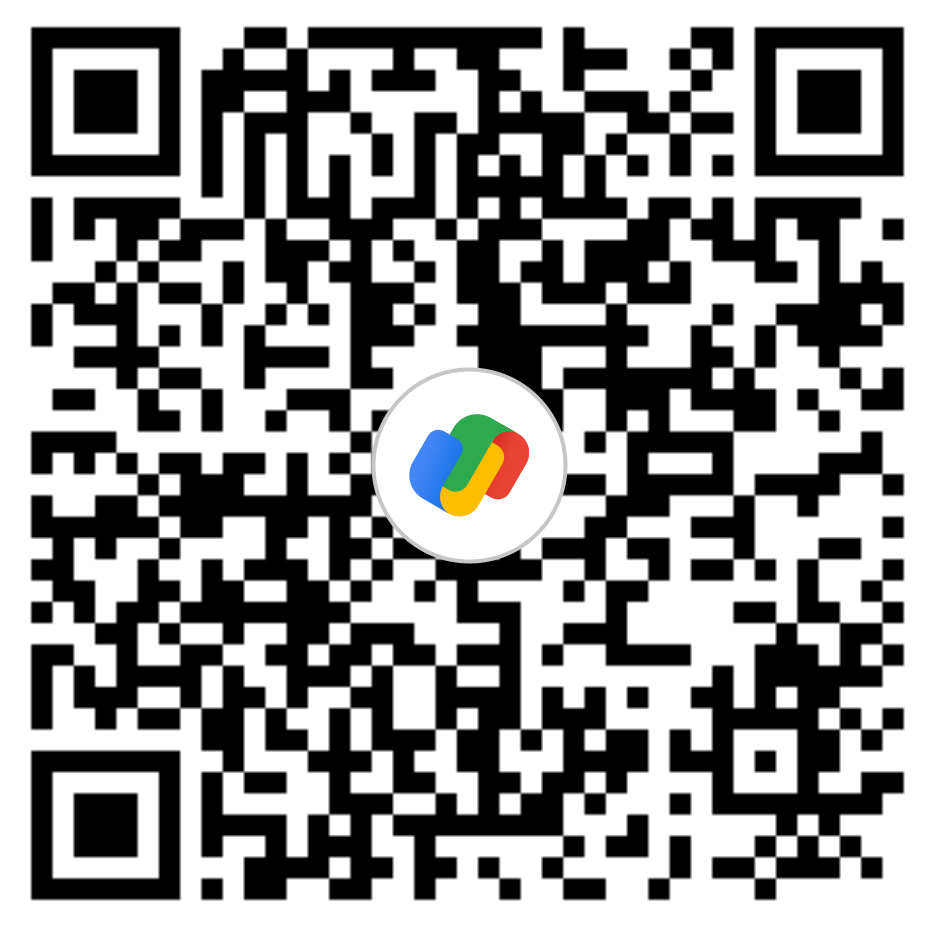
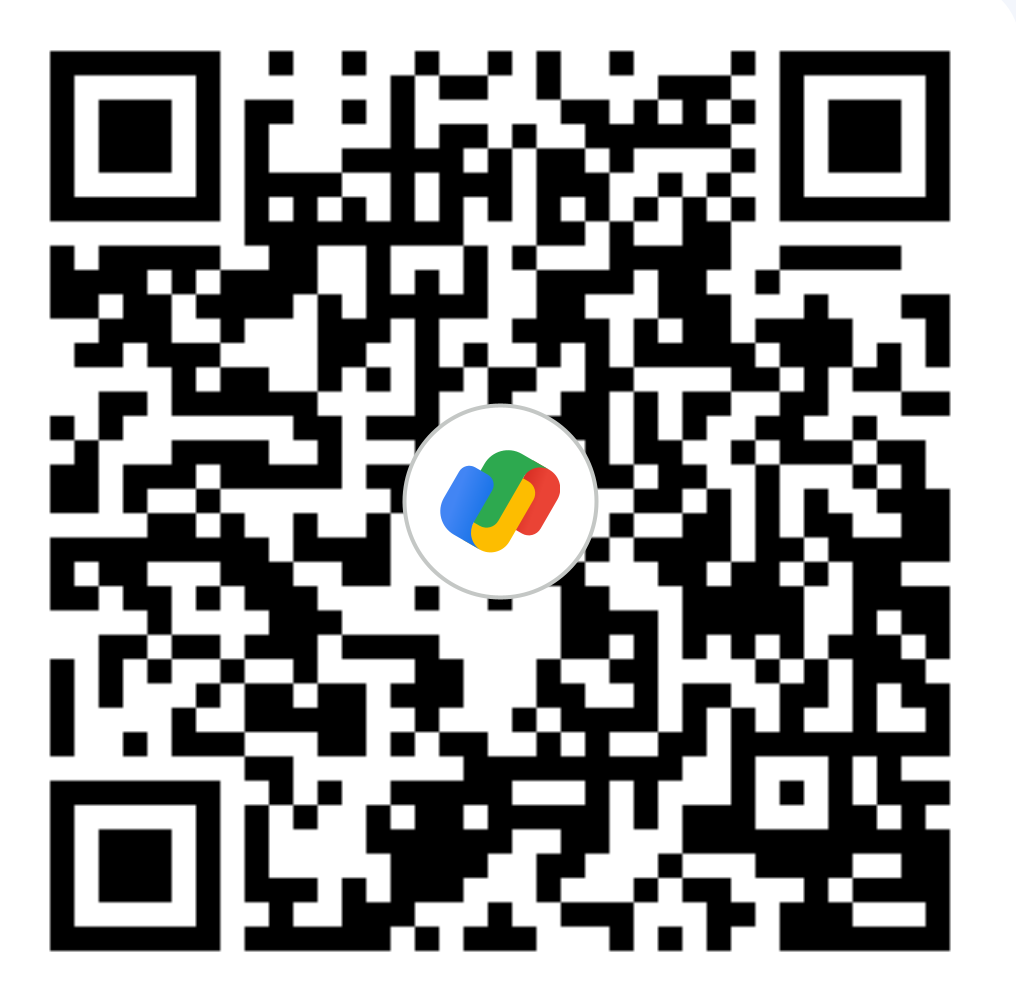
pic changed

diff --git a/index.html b/index.html
@@ -758,7 +758,7 @@
                             </div>
 
                             <div class="form-group">
-                                <a href="upi://pay?pa=kirubasree042@okaxis&pn=Kiruba%20Sree&am=150.00&cu=INR&aid=uGICAgMC8t6HkVw"><img src="assets/img/qrcode.png" height="400px" alt="upi-transaction"
+                                <a href="upi://pay?pa=jpgokul03@okaxis&pn=Gokul%20Ganesh&am=150.00&cu=INR&aid=uGICAgICq1Z3YLA"><img src="assets/img/qrcode.png" height="400px" alt="upi-transaction"
                                     class="responsive"></a>
                             </div>
                             <div class="form-group">
